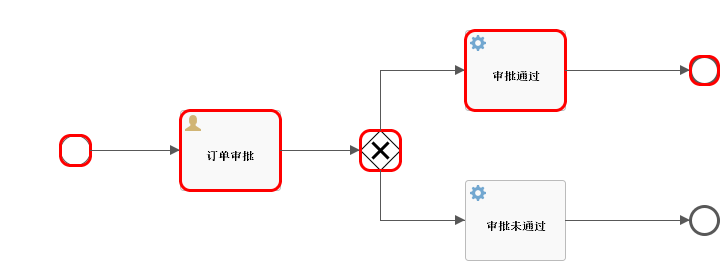
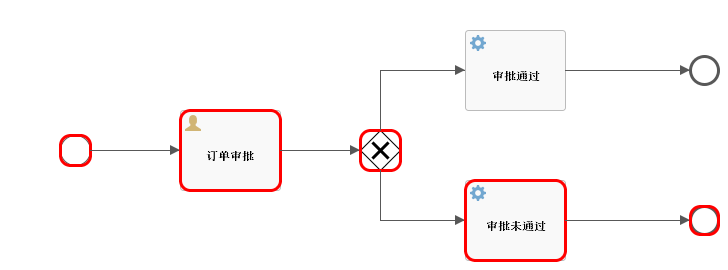
add demo junit

diff --git a/flowable-spring-boot-engine/src/test/java/com/hb0730/flowable/spring/boot/engine/runtime/RunTimeTest.java b/flowable-spring-boot-engine/src/test/java/com/hb0730/flowable/spring/boot/engine/runtime/RunTimeTest.java
@@ -97,6 +97,18 @@ public class RunTimeTest extends BaseTest {
     }
 
     /**
+     * 查询流程
+     */
+    @Test
+    public void queryProcessInstanceTest() {
+        List<ProcessInstance> approval = runtimeService.createProcessInstanceQuery()
+                .processDefinitionKey("OrderApproval").list();
+        Assert.assertNotNull(approval);
+        //[ProcessInstance[7d249527-65fe-11eb-babb-60f677c75624]]
+        log.info(approval.toString());
+    }
+
+    /**
      * 提交采购订单的审批请求
      * 3. 启动流程
      */
@@ -110,7 +122,8 @@ public class RunTimeTest extends BaseTest {
 //        map.put("purchaseOrderId","111111");
         ProcessInstance instance = runtimeService.startProcessInstanceByKey("OrderApproval", "111111", map);
         Assert.assertNotNull(instance);
-        // 9953e931-65f8-11eb-a705-60f677c75624
+        // 1.9953e931-65f8-11eb-a705-60f677c75624
+        // 2.7d249527-65fe-11eb-babb-60f677c75624
         log.info(instance.getId());
     }
 
@@ -121,7 +134,8 @@ public class RunTimeTest extends BaseTest {
     public void getTaskByUserIdTest() {
         List<Task> list = taskService.createTaskQuery().taskAssignee("Administrator").orderByTaskAssignee().desc().list();
         Assert.assertNotNull(list);
-        //1. [Task[id=311d8090-65f2-11eb-b93b-60f677c75624, name=订单审批]]
+        //1. [Task[id=9953e931-65f8-11eb-a705-60f677c75624, name=订单审批]]
+        //2. [Task[id=7d2c0f3d-65fe-11eb-babb-60f677c75624, name=订单审批]]
         log.info(list.toString());
     }
 
@@ -146,11 +160,27 @@ public class RunTimeTest extends BaseTest {
     }
 
     /**
+     * 4. 审批未通过
+     */
+    @Test
+    public void unAuditTest() {
+        String taskId = "7d2c0f3d-65fe-11eb-babb-60f677c75624";
+        Task task = taskService.createTaskQuery().taskId(taskId).singleResult();
+        if (null == task) {
+            throw new RuntimeException("task不存在");
+        }
+        runtimeService.setVariable(task.getExecutionId(), "approved", false);
+        taskService.complete(taskId);
+    }
+
+    /**
      * 5. 生成流程图
      */
     @Test
     public void getProcessDiagram() {
-        String processId = "9953e931-65f8-11eb-a705-60f677c75624";
+        // 9953e931-65f8-11eb-a705-60f677c75624
+        // 7d249527-65fe-11eb-babb-60f677c75624
+        String processId = "7d249527-65fe-11eb-babb-60f677c75624";
         boolean isFish = historyService.createHistoricProcessInstanceQuery()
                 .finished()
                 .processInstanceId(processId).count() > 0;
